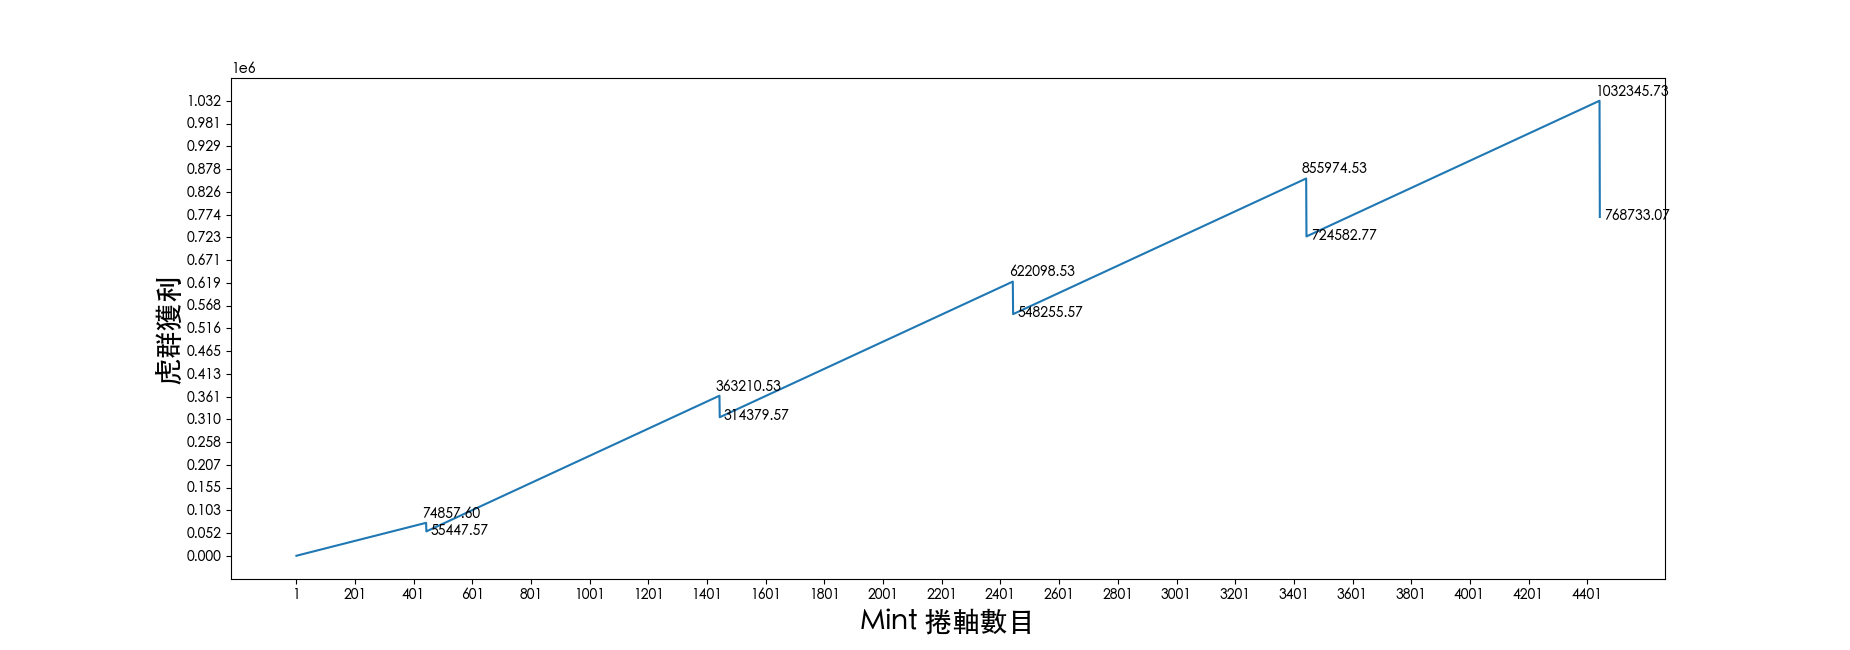
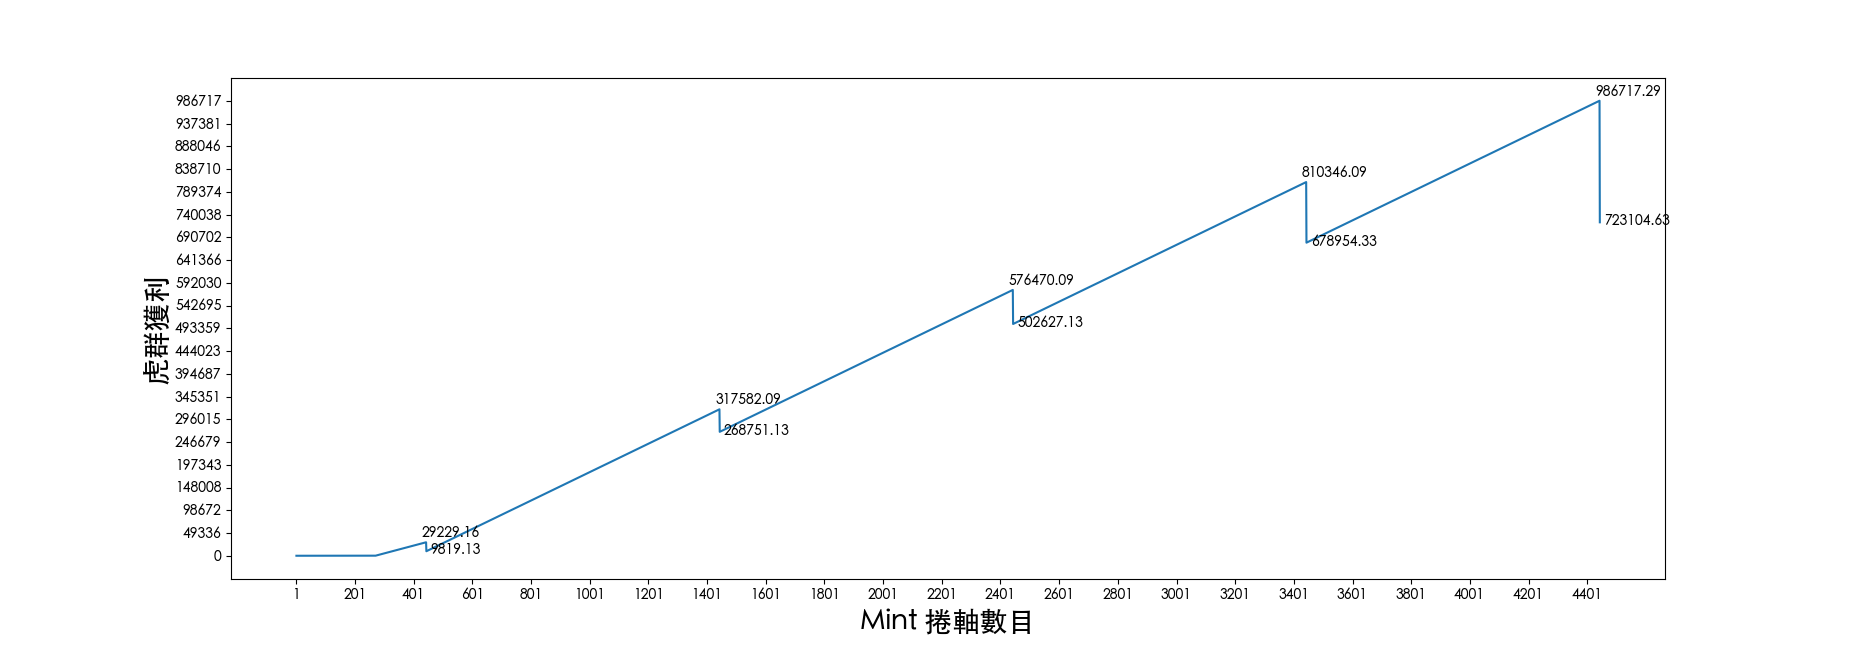
Finish basic V1

diff --git a/v1.py b/v1.py
@@ -2,27 +2,39 @@ import matplotlib.pyplot as plt
 from matplotlib.pyplot import figure
 import numpy as np
 
-## 參數設定
 PHASE_COUNT = 5 # 5 階段
 cost = [0]*PHASE_COUNT
 profit = [0]*PHASE_COUNT
-ETH = 3863
-mint_price = [0.044, 0.08, 0.08, 0.08, 0.08] # eth
-gift = [44*444, 1444*34, 2444*24+4*ETH, 3444*14+21.6*ETH, 4444*4+49.6*ETH+54496.90]
-threshhold = [444, 1444, 2444, 3444, 4444]
-lucky_prize = 44 # U
-
 tmp_cost = []
 tmp_profit = []
 
+## 參數設定
+ETH = 3863
+target_profit = 200*ETH
+
+## 成本參數
+gas_fee = 40
+phase_gas_fee = [0, 0, 4*gas_fee, 8*gas_fee, 8*gas_fee] # 前兩個階段沒有送 eth，後三個階段才有
+lucky_prize = 44 # U
+free_air_drop = 270 # 空投給虎友
+gift = [44*444, 34*1444, 24*2444+4*ETH, 14*3444+21.6*ETH, 4*4444+49.6*ETH+54496.90]
+threshhold = [444, 1444, 2444, 3444, 4444]
+
+## 獲利參數
+mint_price = [0.044, 0.08, 0.08, 0.08, 0.08] # eth
+
+if free_air_drop >= threshhold[0]:
+    print("空投 & 門檻的比例不對！")
+
 phase = 0
 for i in range(1, 4445):
-    if i <= threshhold[phase]:
+    if i <= threshhold[phase] and i > free_air_drop:
         profit[phase] += mint_price[phase]*ETH
         if (len(str(i))>2 and str(i)[-3:] == "444") or (i%44==0):
             cost[phase] += lucky_prize
         if i == threshhold[phase]:
             cost[phase] += gift[phase]
+            cost[phase] += phase_gas_fee[phase]
             phase += 1
     tmp_cost.append(sum(cost))
     tmp_profit.append(sum(profit))
@@ -31,8 +43,13 @@ x = np.arange(1, 4445, 1)
 
 # 淨值計算
 net_value = []
+show_target_idx = False
 for i in range(4444):
-    net_value.append(tmp_profit[i] - tmp_cost[i])
+    tmp_net = tmp_profit[i] - tmp_cost[i]
+    if not show_target_idx and tmp_net >= target_profit:
+        print("賣 {0} 包，即可達到目標獲利 : {1} U".format(i+1, target_profit))
+        show_target_idx = True
+    net_value.append(tmp_net)
 
 
 plt.rcParams['font.family'] = ['Heiti TC']
@@ -49,19 +66,19 @@ for x,y in zip(x, net_value):
     ## 印出門檻值之前一個點 (ex: 443, 1443 ...)
     if idx == threshhold[tmp_phase]-1:
         label = "{:.2f}".format(y)
-        plt.annotate(label, # this is the text
-                    (x,y), # this is the point to label
-                    textcoords="offset points", # how to position the text
-                    xytext=(-3,3), # distance from text to points (x,y)
+        plt.annotate(label, 
+                    (x,y), 
+                    textcoords="offset points", 
+                    xytext=(-3,3),
                     ha='left')
     ## 印出門檻值 (ex: 444, 1444 ...)
     if idx == threshhold[tmp_phase]:
         tmp_phase += 1
         label = "{:.2f}".format(y)
-        plt.annotate(label, # this is the text
-                    (x,y), # this is the point to label
-                    textcoords="offset points", # how to position the text
-                    xytext=(3,-3), # distance from text to points (x,y)
+        plt.annotate(label, 
+                    (x,y), 
+                    textcoords="offset points", 
+                    xytext=(3,-3), 
                     ha='left')
     idx += 1
 
